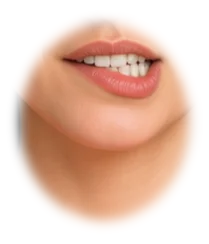
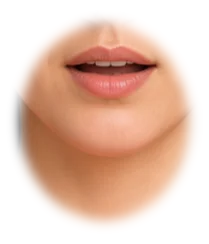
Maya: troca a boca F/V torta (mordendo o lábio de um lado) por uma centralizada
O script mede o desvio horizontal de cada boca em relação ao retrato e, acima de 7%
(bocas normais ficam até ~5%), usa a boca entreaberta no lugar. Só a F/V da Maya passou do limite (9,8%).

Claude-Session: https://claude.ai/code/session_016xu6QYiXh7afZ6jxHZhVUL

diff --git a/scripts/tutores-fotos.py b/scripts/tutores-fotos.py
@@ -97,6 +97,20 @@ def recorte(base, img, c):
     return rgba
 
 
+DESVIO_MAX = 0.07  # 7% da largura da região da boca (medido: bocas normais ficam até ~5%)
+
+
+def desvio_horizontal(base, img, c):
+    """Quanto o que muda na boca está deslocado do centro da região (fração da largura; + = para a direita)."""
+    x0, y0, x1, y1 = c
+    d = cv2.absdiff(cv2.GaussianBlur(img[y0:y1, x0:x1], (5, 5), 0), cv2.GaussianBlur(base[y0:y1, x0:x1], (5, 5), 0)).max(axis=2)
+    a = mascara_elipse(x1 - x0, y1 - y0)
+    ys, xs = np.nonzero((d * a) > 30)
+    if len(xs) < 50:
+        return 0.0
+    return (xs.mean() - (x1 - x0) / 2) / (x1 - x0)
+
+
 def salvar_webp(caminho, img, q=82):
     cv2.imwrite(caminho, img, [cv2.IMWRITE_WEBP_QUALITY, q])
 
@@ -135,8 +149,14 @@ def processar(pasta, slug):
     if surpresa_p:
         bocas["surpresa"] = ler(surpresa_p)
     for v, L in VISEMA_PARA_BOCA.items():
-        fonte = bocas.get(L) if L in bocas else bocas["C"]  # sem a foto "surpresa": volta ao sorriso com dentes
-        cv2.imwrite(os.path.join(saida, f"boca-{v}.webp"), recorte(base, fonte, cb), [cv2.IMWRITE_WEBP_QUALITY, 85])
+        escolha = L if L in bocas else "C"  # sem a foto "surpresa": volta ao sorriso com dentes
+        # boca torta (ex.: mordendo o lábio de um lado) fica estranha na fala: troca por uma centralizada
+        for alternativa in ("surpresa", "A"):
+            if abs(desvio_horizontal(base, bocas[escolha], cb)) <= DESVIO_MAX or alternativa not in bocas:
+                break
+            print(f"  {slug}: boca {L} da posição {v} está deslocada para o lado; usando {alternativa}")
+            escolha = alternativa
+        cv2.imwrite(os.path.join(saida, f"boca-{v}.webp"), recorte(base, bocas[escolha], cb), [cv2.IMWRITE_WEBP_QUALITY, 85])
     cv2.imwrite(os.path.join(saida, "olhos.webp"), recorte(base, olhos, co), [cv2.IMWRITE_WEBP_QUALITY, 85])
     info.update({"animado": True, "boca": frac(cb, LADO, LADO), "olhos": frac(co, LADO, LADO), "expressoes": {}})
 
